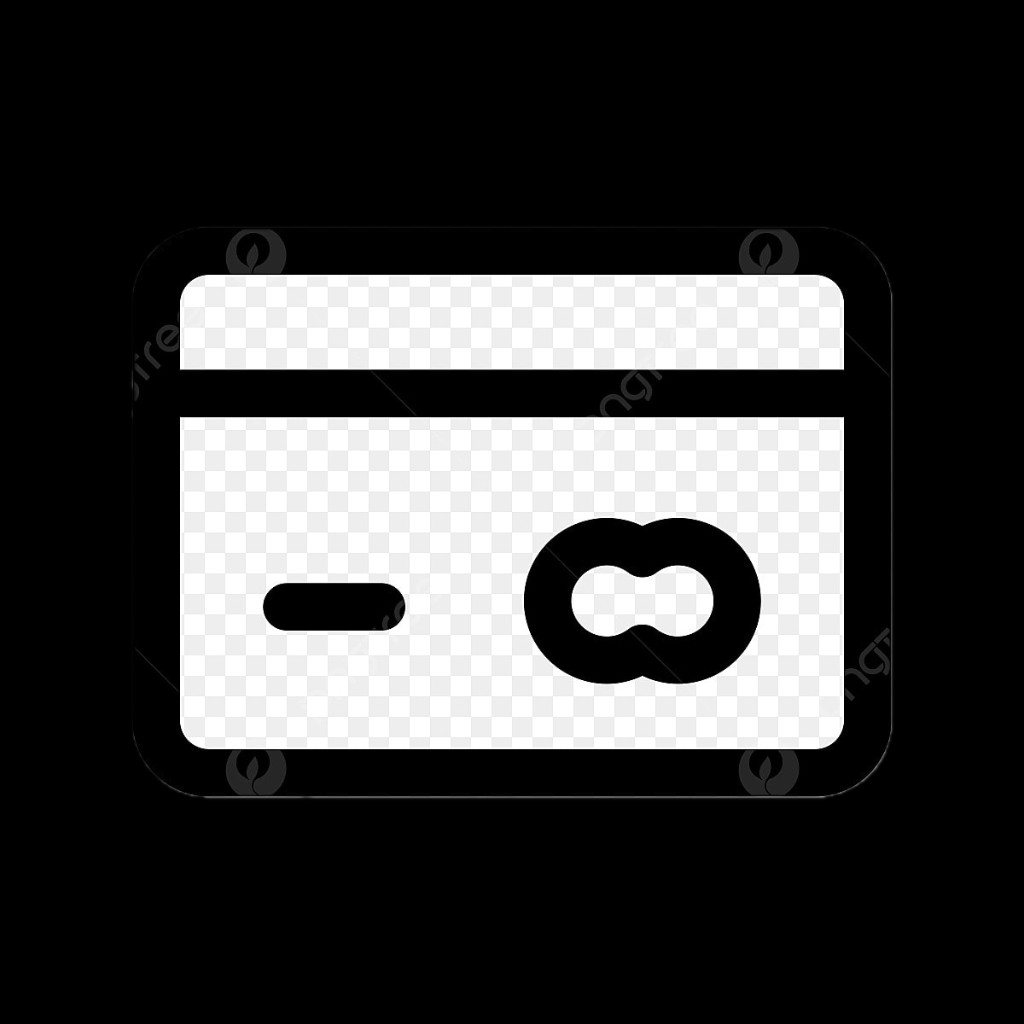
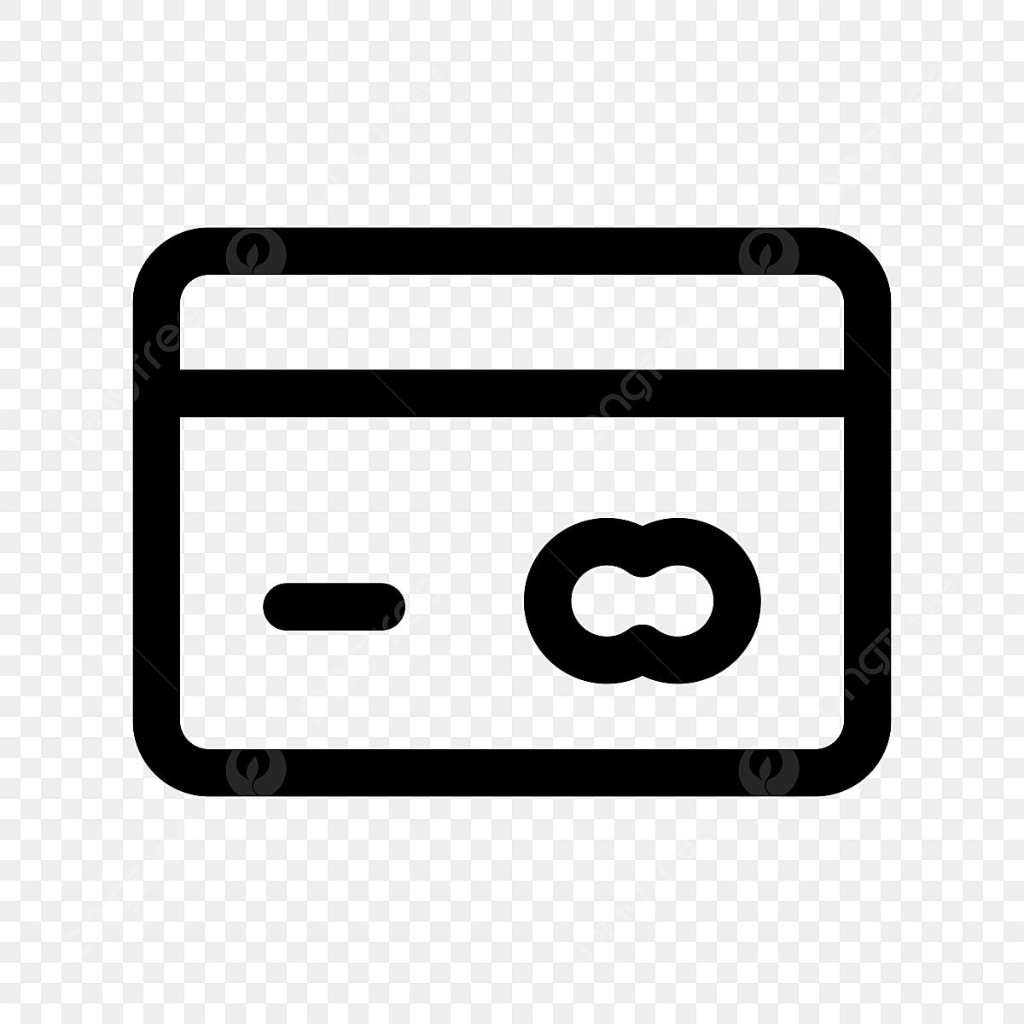
chore(card): replace card.png with new artwork; scale in row
Convert asset to PNG; constrain picture/img in the radio wrapper so the
graphic fits beside controls without overflowing the 320–340px shell.

Made-with: Cursor

diff --git a/blocks/form/components/card/card.css b/blocks/form/components/card/card.css
@@ -14,3 +14,17 @@
   align-items: flex-start;
   gap: 12px;
 }
+
+.card .radio-wrapper picture {
+  flex: 1 1 auto;
+  min-width: 0;
+  max-width: 220px;
+  line-height: 0;
+}
+
+.card .radio-wrapper picture img {
+  display: block;
+  width: 100%;
+  height: auto;
+  object-fit: contain;
+}
